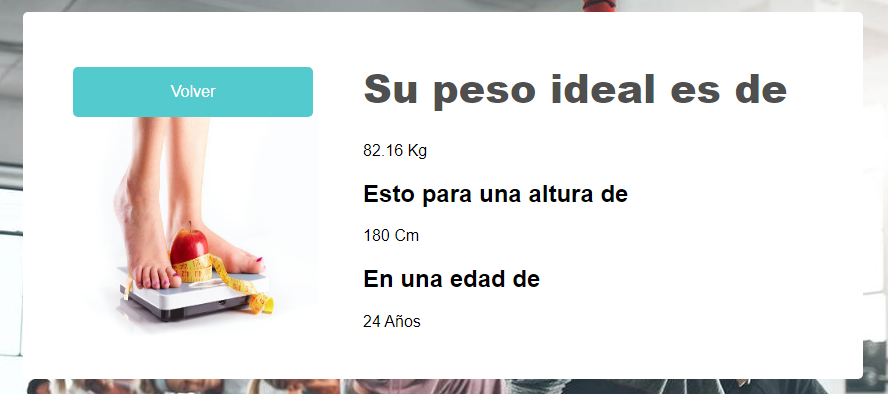
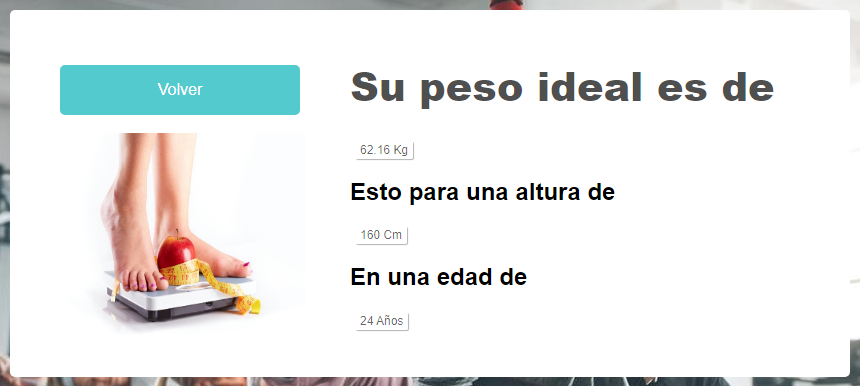
Mod vista

diff --git a/Vista/Main.php b/Vista/Main.php
@@ -38,8 +38,8 @@ function SumitEnviar()
 				<input type='text' name="Altura" id="IdAltura" placeholder='Ingrese su altura en cm:'  value="" maxlength="9" onKeypress="if (event.keyCode < 45 || event.keyCode > 57) event.returnValue = false;"/>
 				<input type='text' name="Edad" id="IdEdad" placeholder='Ingrese su edad:'  value="" maxlength="9" onKeypress="if (event.keyCode < 45 || event.keyCode > 57) event.returnValue = false;"/>
 				
-				<a class="btn btn-primary" id="btnEnviar" href="javascript:SumitEnviar()">Calcular</a><br>
-				<img src="Vista\IMG/PESA.jpg" alt="" width="100px" height="139px" />
+				<a class="btn btn-primary" id="btnEnviar" href="javascript:SumitEnviar()">Calcular</a><br><br>
+				<img src="Vista\IMG/PESA.jpg" alt="" width="100px" height="115px" />
 			</form>
 		</div>
 		<div class='info'>

diff --git a/Vista/Resultado.php b/Vista/Resultado.php
@@ -12,17 +12,17 @@
 	<div id='container'>
 		<div class='data'>
 			<form action="..\index.php" method="post">
-				<button type="submit" value="Submit">Volver</button>
-				<img src="..\Vista\IMG/IDEAL.jpg" alt="" width="250px" height="228px" /><br>
+				<button type="submit" value="Submit">Volver</button><br><br>
+				<img src="..\Vista\IMG/IDEAL.jpg" alt="" width="250px" height="210px" />
 			</form>
 		</div>
 		<div class='info'>
 			<h1>Su peso ideal es de</h1>
-			<?php echo $rPIdeal;?> Kg
+			<span> <?php echo $rPIdeal;?> Kg </span> 
 			<h2>Esto para una altura de</h2>
-			<?php echo $Altura;?> Cm
+			<span> <?php echo $Altura;?> Cm </span> 
 			<h2>En una edad de</h2>
-			<?php echo $Edad;?> Años
+			<span> <?php echo $Edad;?> Años </span> 
 		</div>
 	</div>
 
